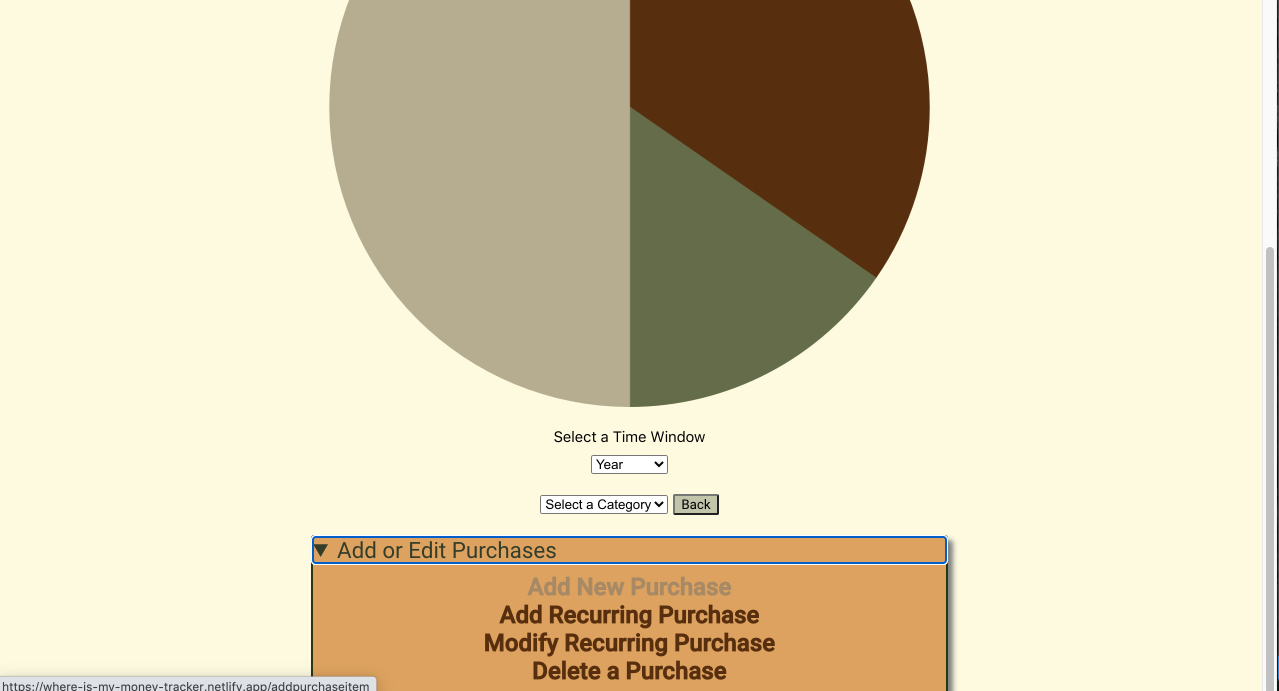
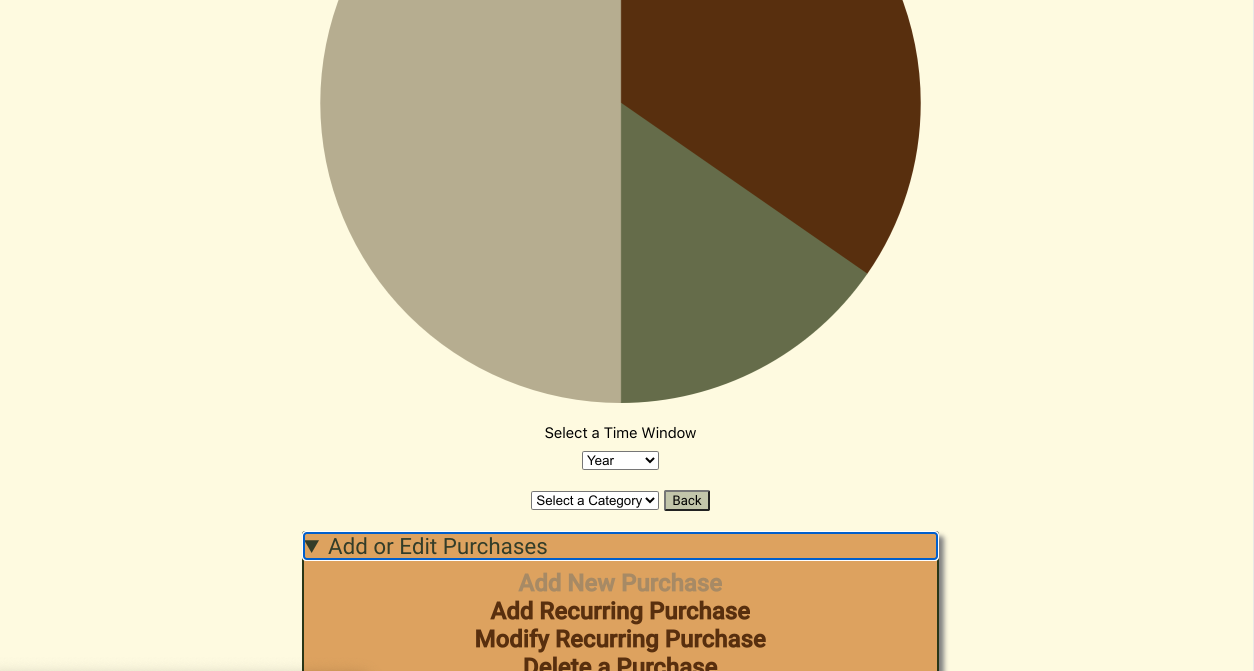
spending tracker images attached to portfolio

diff --git a/src/views/projects/Projects.jsx b/src/views/projects/Projects.jsx
@@ -15,7 +15,7 @@ import home from '../../assets/spending/home.png';
 import menu from '../../assets/spending/menu.png';
 import chart from '../../assets/spending/chart.png';
 import addRecurring from '../../assets/spending/addRecurring.png';
-import category from '../../assets/spending/category.png';
+// import category from '../../assets/spending/category.png';
 import newPurchase from '../../assets/spending/newPurchase.png';
 import stopRecurring from '../../assets/spending/stopRecurring.png';
 import deletePurchase from '../../assets/spending/delete.png';
@@ -73,7 +73,6 @@ export default function Projects(){
                         <img className={style.spendingImg} src={home} alt="home" />
                         <img className={style.spendingImg} src={chart} alt="chart" />
                         <img className={style.spendingImg} src={subcategory} alt="subcategory" />
-                        <img className={style.spendingImg} src={category} alt="category" />
                         <img className={style.spendingImg} src={menu} alt="menu" />
                         <img className={style.spendingImg} src={newPurchase} alt="newPurchase" />
                         <img className={style.spendingImg} src={addRecurring} alt="addRecurring" />

diff --git a/src/views/projects/projects.css b/src/views/projects/projects.css
@@ -45,8 +45,7 @@
 .spendingImg {
     display: block;
     height: 500px;
-    width: auto;
+    width: 800px !important;
     position: relative;
     margin: auto;
-    margin-right: 10px;
 }
